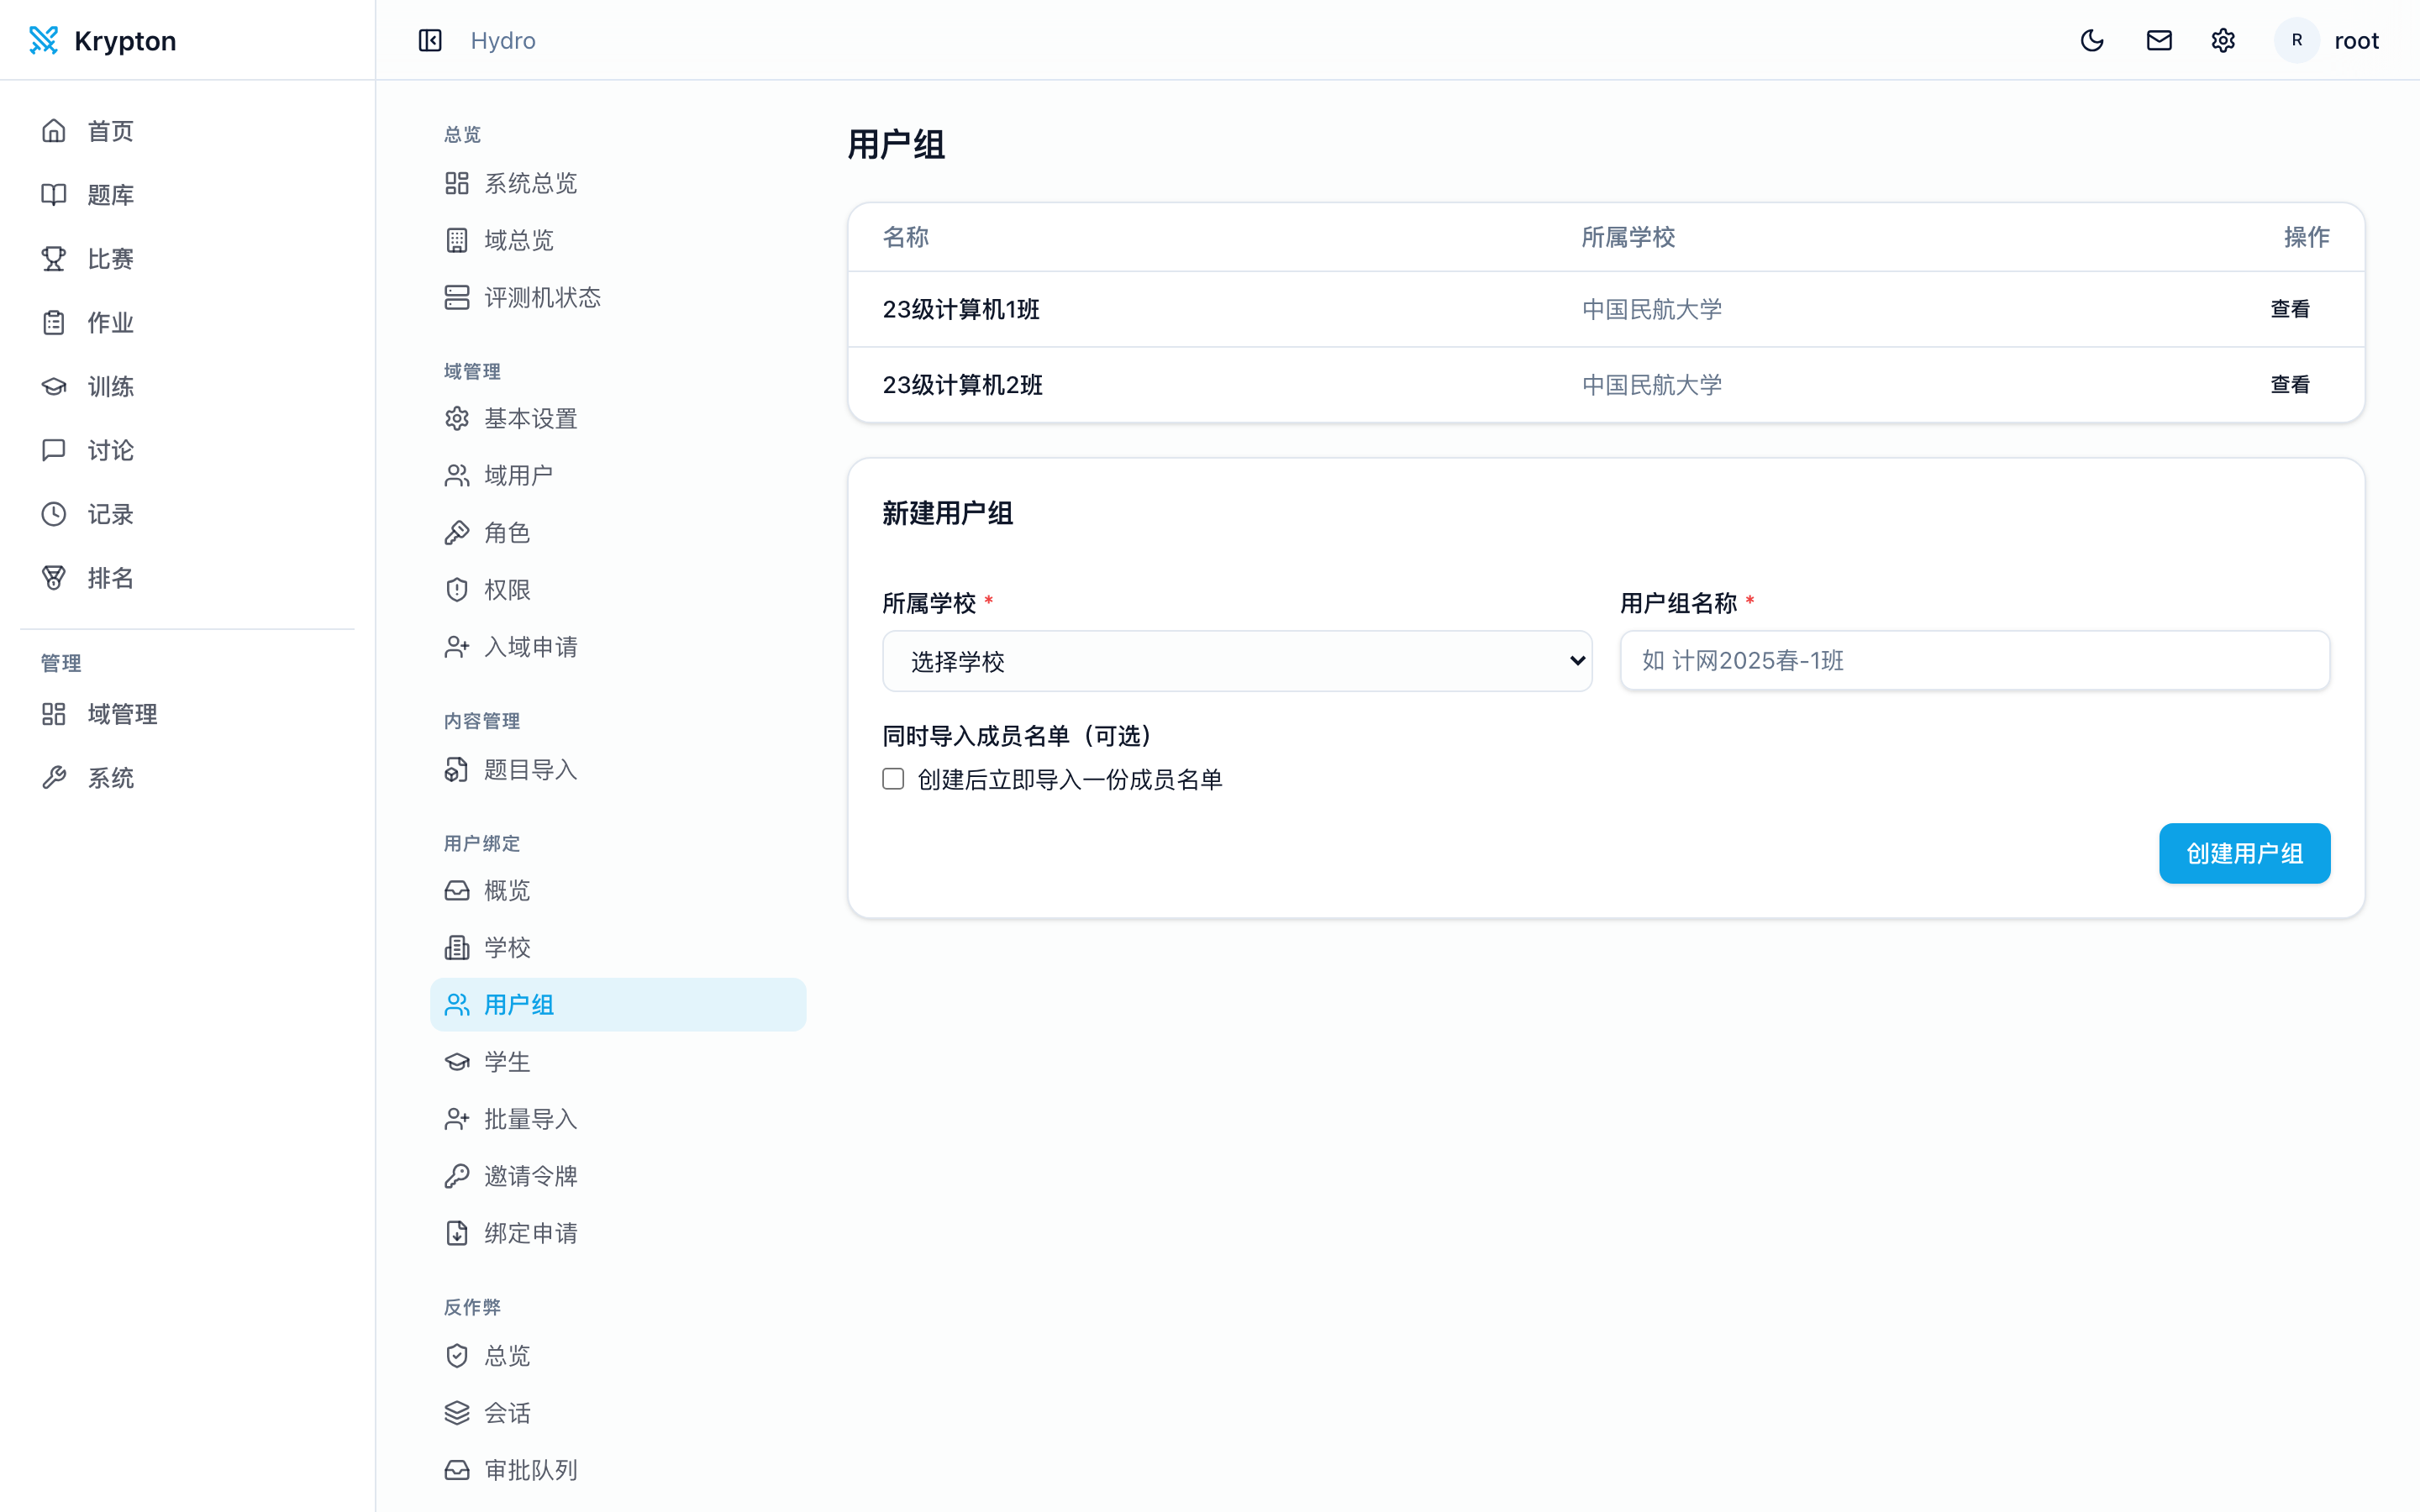
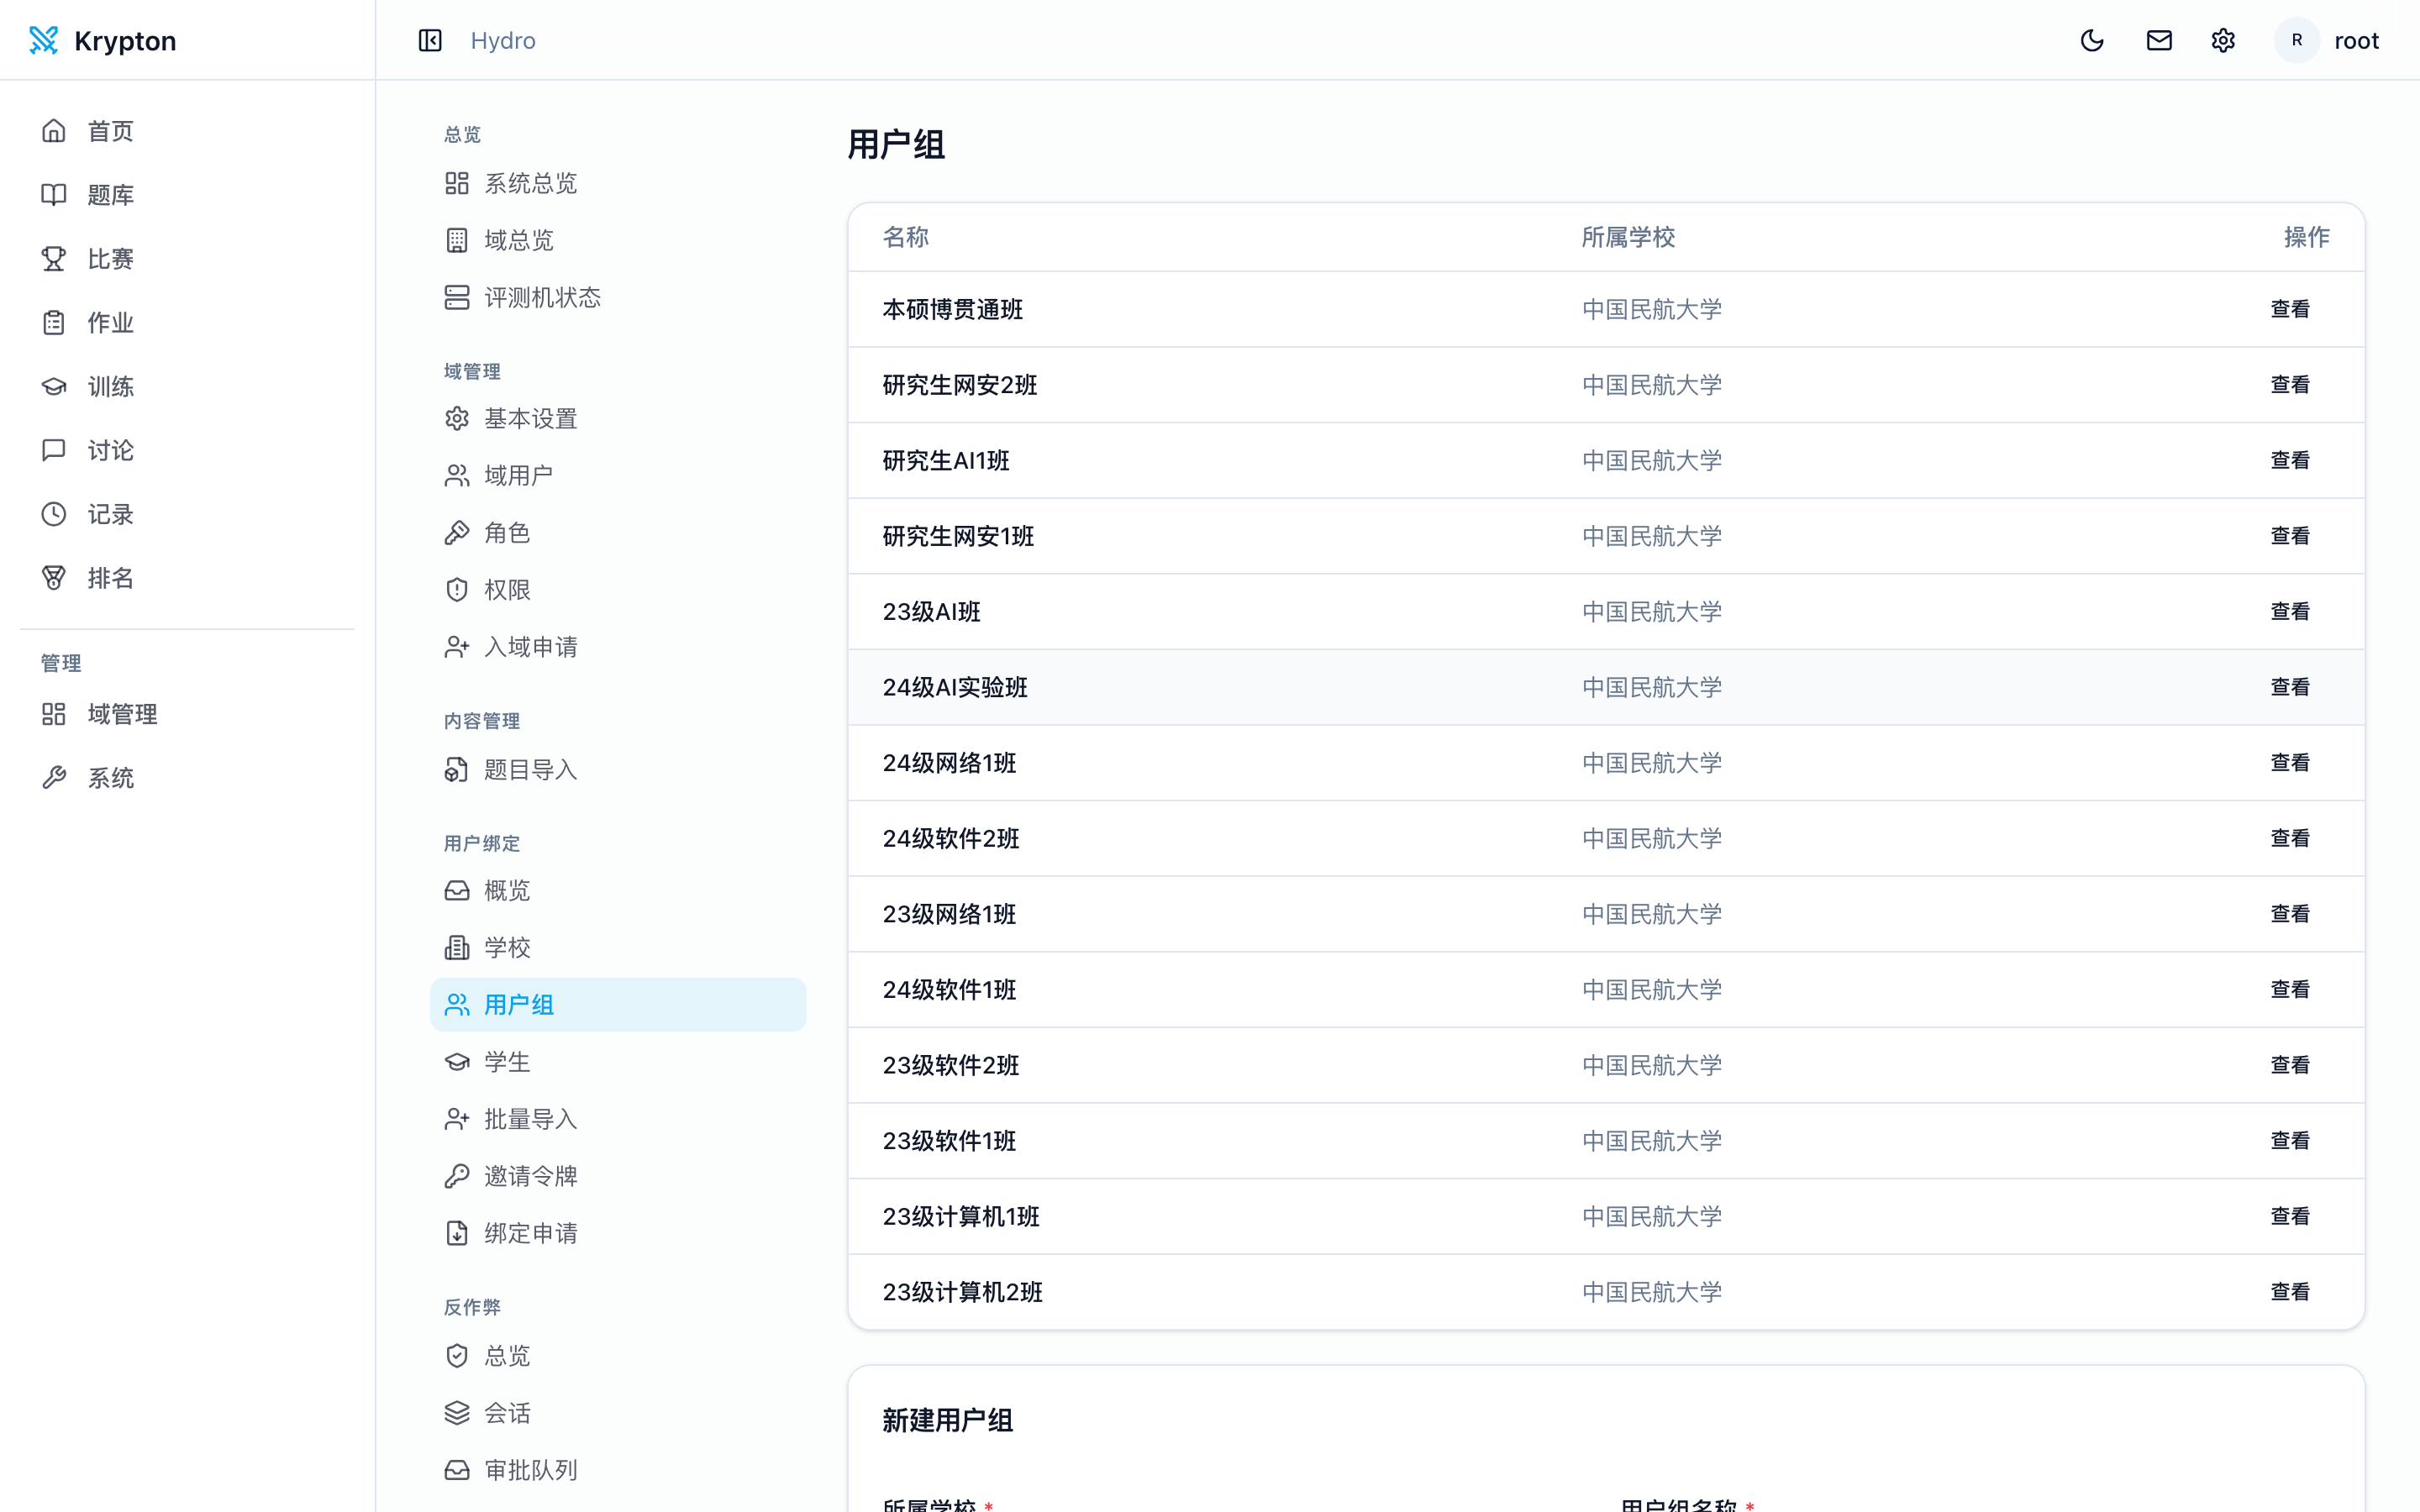
fix: school detail — replace badge wrap with scrollable searchable list
A school's user-group section previously rendered every group as a wrapped
badge. With 50+ groups it bloated the page and offered no way to find a
specific one.

Replaces with <SchoolGroupsList>:
- Header shows count + a "在用户组页新建" shortcut button
- Search input filters by name client-side
- Scrollable list (max-h-80) with one row per group: icon + name +
  member-count badge + chevron-right
- Hover state + divider lines between rows
- "X / N 用户组" footer hint when search is active
- Friendly empty state when the school has no groups yet

Backend:
- AdminSchoolDetailHandler.get does one extra aggregation query to compute
  member-count per group (single pipeline, no N+1)
- groups payload now includes memberCount; importText re-render path also
  populated

diff --git a/packages/ui-next/src/pages/userbind/index.tsx b/packages/ui-next/src/pages/userbind/index.tsx
@@ -8,7 +8,7 @@
  */
 import { useState } from 'react';
 import {
-  AlertCircle, Building2, Copy, FileDown, GraduationCap, Inbox, KeyRound,
+  AlertCircle, Building2, ChevronRight, Copy, FileDown, GraduationCap, Inbox, KeyRound,
   LinkIcon, ListChecks, Mail, ShieldCheck, Users, UserPlus,
 } from 'lucide-react';
 import { useBootstrap } from '@/lib/bootstrap';
@@ -184,11 +184,87 @@ export function AdminUserbindSchoolsPage() {
   );
 }
 
+/**
+ * Scrollable, searchable list of a school's user groups. Replaces the old
+ * flex-wrap of badges so a school with 50+ groups doesn't overflow the page.
+ */
+function SchoolGroupsList({
+  schoolId, groups,
+}: {
+  schoolId: string;
+  groups: Array<{ _id: string; name: string; memberCount: number }>;
+}) {
+  const [q, setQ] = useState('');
+  const filtered = q.trim()
+    ? groups.filter((g) => g.name.toLowerCase().includes(q.toLowerCase()))
+    : groups;
+  return (
+    <Card>
+      <CardHeader>
+        <CardTitle className="flex items-center justify-between text-base">
+          <span>用户组 ({groups.length})</span>
+          <Button asChild size="sm" variant="outline" className="gap-1">
+            <a href={`/admin/userbind/groups?schoolId=${schoolId}`}>
+              <Users className="size-3.5" />在用户组页新建
+            </a>
+          </Button>
+        </CardTitle>
+      </CardHeader>
+      <CardContent className="space-y-3">
+        {groups.length === 0 ? (
+          <div className="rounded-md border border-dashed bg-muted/20 p-6 text-center text-sm text-muted-foreground">
+            该学校暂无用户组。前往「用户组」页面创建一个。
+          </div>
+        ) : (
+          <>
+            <Input
+              placeholder="搜索用户组名称…"
+              value={q}
+              onChange={(e) => setQ(e.target.value)}
+              className="max-w-sm"
+            />
+            <div className="max-h-80 overflow-y-auto rounded-md border bg-muted/10">
+              {filtered.length === 0 ? (
+                <p className="px-4 py-8 text-center text-sm text-muted-foreground">
+                  没有匹配「{q}」的用户组
+                </p>
+              ) : (
+                <ul className="divide-y divide-border/60">
+                  {filtered.map((g) => (
+                    <li key={g._id}>
+                      <a
+                        href={`/admin/userbind/groups/${g._id}`}
+                        className="flex items-center gap-3 px-4 py-2.5 transition-colors hover:bg-accent/40"
+                      >
+                        <Users className="size-4 shrink-0 text-muted-foreground" />
+                        <span className="flex-1 truncate text-sm font-medium">{g.name}</span>
+                        <Badge variant="outline" className="shrink-0 text-[10px] font-mono">
+                          {g.memberCount} 人
+                        </Badge>
+                        <ChevronRight className="size-4 shrink-0 text-muted-foreground/60" />
+                      </a>
+                    </li>
+                  ))}
+                </ul>
+              )}
+            </div>
+            {q && filtered.length < groups.length && (
+              <p className="text-xs text-muted-foreground">
+                显示 {filtered.length} / {groups.length} 个用户组
+              </p>
+            )}
+          </>
+        )}
+      </CardContent>
+    </Card>
+  );
+}
+
 export function AdminUserbindSchoolDetailPage() {
   const bs = useBootstrap();
   const data = bs.page.data as {
     school: { _id: string; name: string };
-    groups: Array<{ _id: string; name: string }>;
+    groups: Array<{ _id: string; name: string; memberCount: number }>;
     students: Array<{ _id: string; studentId: string; realName: string; boundUserId: number | null }>;
     studentTotal: number;
     schoolTokens: Array<{ _id: string; createdAt: string; expiresAt: string | null }>;
@@ -241,22 +317,9 @@ export function AdminUserbindSchoolDetailPage() {
         </CardContent>
       </Card>
 
-      {/* Groups */}
-      <Card>
-        <CardHeader className="px-5 pb-3 pt-5"><CardTitle className="text-base">用户组 ({data.groups.length})</CardTitle></CardHeader>
-        <CardContent className="px-5 pb-5">
-          <div className="flex flex-wrap gap-2">
-            {data.groups.map((g) => (
-              <a key={g._id} href={`/admin/userbind/groups/${g._id}`}>
-                <Badge variant="outline" className="cursor-pointer hover:bg-accent">{g.name}</Badge>
-              </a>
-            ))}
-            {data.groups.length === 0 && (
-              <span className="text-sm text-muted-foreground">该学校暂无用户组。</span>
-            )}
-          </div>
-        </CardContent>
-      </Card>
+      {/* Groups — searchable scrollable list (handles many groups gracefully) */}
+      <SchoolGroupsList schoolId={data.school._id} groups={data.groups} />
+
 
       {/* Import students into this school */}
       <RosterImporter

diff --git a/packages/krypton-userbind/src/handler.ts b/packages/krypton-userbind/src/handler.ts
@@ -90,13 +90,31 @@ class AdminSchoolDetailHandler extends UserbindAdminHandler {
     async get({ domainId }: { domainId: string }, schoolId: ObjectId) {
         const school = await userBindModel.getSchool(domainId, schoolId);
         if (!school) throw new NotFoundError('School');
-        const [groups, { docs: students, total }, schoolTokens] = await Promise.all([
+        const [groups, { docs: students, total }, schoolTokens, groupCounts] = await Promise.all([
             userBindModel.listUserGroups(domainId, schoolId),
             userBindModel.listStudents(domainId, { schoolId, limit: 200 }),
             userBindModel.listInviteTokens(domainId, { schoolId, kind: 'school' }),
+            // Single aggregation to count students per group within this school.
+            studentsColl.aggregate<{ _id: ObjectId; count: number }>([
+                { $match: { domainId, schoolId } },
+                { $unwind: '$groupIds' },
+                { $group: { _id: '$groupIds', count: { $sum: 1 } } },
+            ]).toArray(),
         ]);
+        // Map group _id → memberCount
+        const groupMemberCount: Record<string, number> = {};
+        for (const r of groupCounts) groupMemberCount[r._id.toString()] = r.count;
+        // Annotate groups with memberCount for the UI.
+        const groupsWithCount = groups.map((g) => ({
+            _id: g._id,
+            name: g.name,
+            memberCount: groupMemberCount[g._id.toString()] || 0,
+        }));
         this.response.template = 'admin_userbind_school_detail.html';
-        this.response.body = { school, groups, students, studentTotal: total, schoolTokens, importReport: null };
+        this.response.body = {
+            school, groups: groupsWithCount, students, studentTotal: total,
+            schoolTokens, importReport: null,
+        };
     }
 
     @param('schoolId', Types.ObjectId)
@@ -128,14 +146,25 @@ class AdminSchoolDetailHandler extends UserbindAdminHandler {
         });
         // Re-render the school detail page with the report inline.
         const school = await userBindModel.getSchool(domainId, schoolId);
-        const [groups, { docs: students, total }, schoolTokens] = await Promise.all([
+        const [groups, { docs: students, total }, schoolTokens, groupCounts] = await Promise.all([
             userBindModel.listUserGroups(domainId, schoolId),
             userBindModel.listStudents(domainId, { schoolId, limit: 200 }),
             userBindModel.listInviteTokens(domainId, { schoolId, kind: 'school' }),
+            studentsColl.aggregate<{ _id: ObjectId; count: number }>([
+                { $match: { domainId, schoolId } },
+                { $unwind: '$groupIds' },
+                { $group: { _id: '$groupIds', count: { $sum: 1 } } },
+            ]).toArray(),
         ]);
+        const groupMemberCount: Record<string, number> = {};
+        for (const r of groupCounts) groupMemberCount[r._id.toString()] = r.count;
+        const groupsWithCount = groups.map((g) => ({
+            _id: g._id, name: g.name,
+            memberCount: groupMemberCount[g._id.toString()] || 0,
+        }));
         this.response.template = 'admin_userbind_school_detail.html';
         this.response.body = {
-            school, groups, students, studentTotal: total, schoolTokens,
+            school, groups: groupsWithCount, students, studentTotal: total, schoolTokens,
             importReport: {
                 ...importReport,
                 preflightInvalid: parsed.filter((r) => r.status !== 'ok'),

diff --git a/packages/ui-next/public/next/index.html b/packages/ui-next/public/next/index.html
@@ -6,8 +6,8 @@
     <meta name="theme-color" content="#0f172a" />
     <title>Krypton</title>
     <!--KRYPTON_HEAD-->
-    <script type="module" crossorigin src="/next/assets/index-DmTtGnM4.js"></script>
-    <link rel="stylesheet" crossorigin href="/next/assets/index-MSpV12i_.css">
+    <script type="module" crossorigin src="/next/assets/index-C_NshA-u.js"></script>
+    <link rel="stylesheet" crossorigin href="/next/assets/index-DlxOjsio.css">
   </head>
   <body>
     <div id="root"></div>